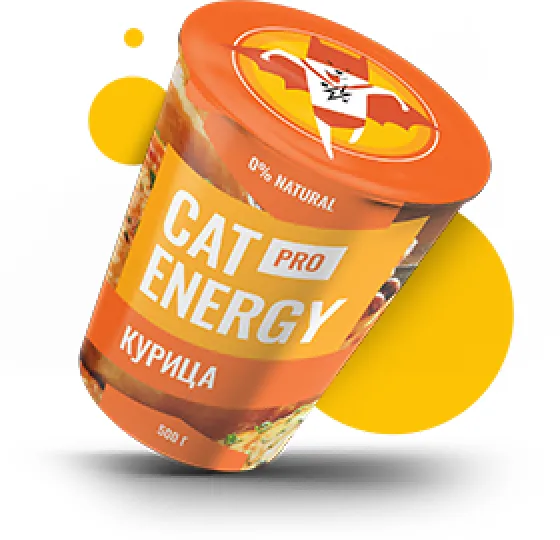
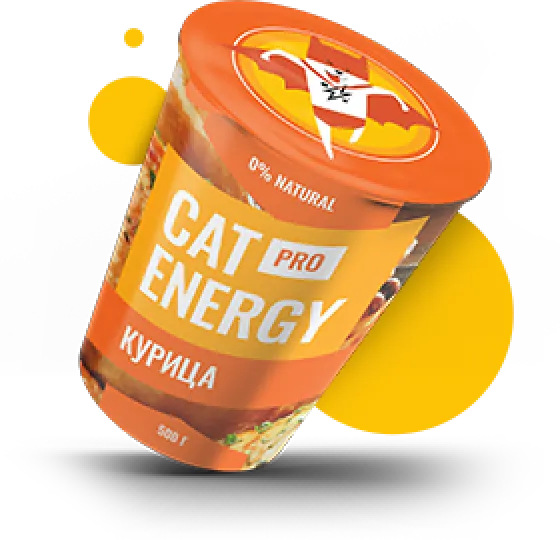
Добавляет декоративную и контентную графику

diff --git a/source/index.html b/source/index.html
@@ -46,9 +46,9 @@
         <h2 class="hero__title">Функциональное питание для котов</h2>
         <p class="hero__description">Занялся собой? Займись котом!</p>
         <picture>
-          <source width="552" height="499" type="image/jpeg" media="(min-width: 1440px)" srcset="images/cat-energy-box@1x.jpg 1x, images/cat-energy-box@2x.jpg 2x">
-          <source width="709" height="609" type="image/jpeg" media="(min-width: 768px)" srcset="images/cat-energy-box-tablet@1x.jpg 1x, images/cat-energy-box-tablet@2x.jpg 2x">
-          <img class="hero__image" src="images/cat-energy-box-mobile@1x.jpg" srcset="images/cat-energy-box-mobile@2x.jpg 2x" width="280" height="270" alt="Изображение коробки корма с курицей весом 500 грамм.">
+          <source width="552" height="499" type="image/png" media="(min-width: 1440px)" srcset="images/cat-energy-box-desktop@1x.png 1x, images/cat-energy-box-desktop@2x.png 2x">
+          <source width="709" height="609" type="image/png" media="(min-width: 768px)" srcset="images/cat-energy-box-tablet@1x.png 1x, images/cat-energy-box-tablet@2x.png 2x">
+          <img class="hero__image" src="images/cat-energy-box-mobile@1x.png" srcset="images/cat-energy-box-mobile@2x.png 2x" width="280" height="270" alt="Изображение коробки корма с курицей весом 500 грамм.">
         </picture>
         <a class="hero__link button" href="#">Подобрать программу</a>
       </div>

diff --git a/source/styles/blocks/hero.scss b/source/styles/blocks/hero.scss
@@ -2,12 +2,52 @@
 /* stylelint-disable block-no-empty */
 
 .hero {
+  position: relative;
+  display: flex;
+  flex-direction: column;
   font-family: $secondary-font;
   color: $text-color-basic-white;
   font-weight: 400;
+  min-height: 480px;
 }
 
-.hero__wrapper {}
+.hero::before {
+  content: "";
+  position: absolute;
+  top: 0;
+  left: 0;
+  z-index: -1;
+  width: 320px;
+  height: 302px;
+  background-image: linear-gradient(rgba(104, 183, 56, 0.85), rgba(104, 183, 56, 0.85)), url("../../images/index-background-mobile@1x.png");
+  background-repeat: no-repeat;
+  background-size: cover;
+  background-position: center center;
+
+  @media (min-width: $tablet-width) {
+    background-image: none;
+  }
+
+  @media (min-width: $desktop-width) {
+    left: unset;
+    right: 0;
+    width: 720px;
+    height: 694px;
+    background-image: linear-gradient(rgba(104, 183, 56, 0.85), rgba(104, 183, 56, 0.85)), url("../../images/index-background-desktop@1x.png");
+  }
+}
+
+.hero__wrapper {
+  margin: 0 20px;
+
+  @media (min-width: $tablet-width) {
+    margin: 0 30px;
+  }
+
+  @media (min-width: $desktop-width) {
+    margin: 0 110px;
+  }
+}
 
 .hero__title {
   font-size: 36px;

diff --git a/source/styles/common/global.scss b/source/styles/common/global.scss
@@ -13,7 +13,7 @@ body {
   font-size: 14px;
   line-height: 18px;
   color: $text-color-special-grey;
-  background-color: #85b6b6;
+  background-color: #ffffff;
   margin: 0 auto;
 }
 

diff --git a/source/styles/blocks/header.scss b/source/styles/blocks/header.scss
@@ -2,7 +2,6 @@
 /* stylelint-disable block-no-empty */
 
 .header {
-  background-color: #663399;
   color: #ffffff;
   padding: 10px 15px;
 }
